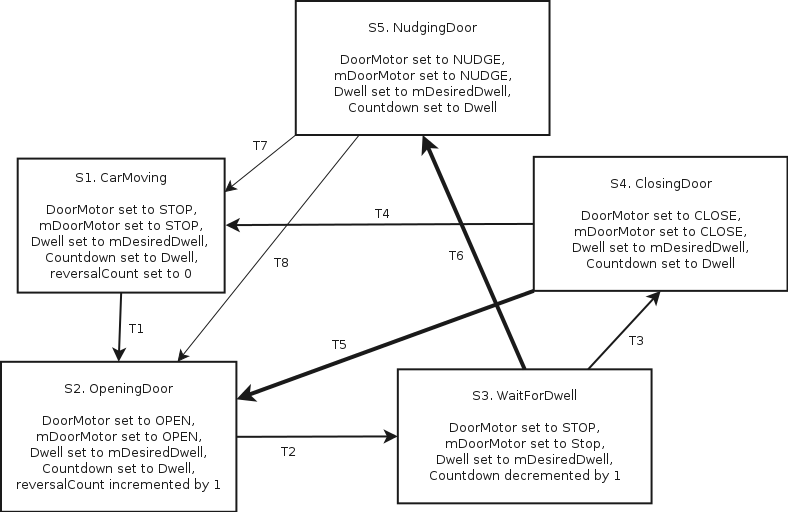
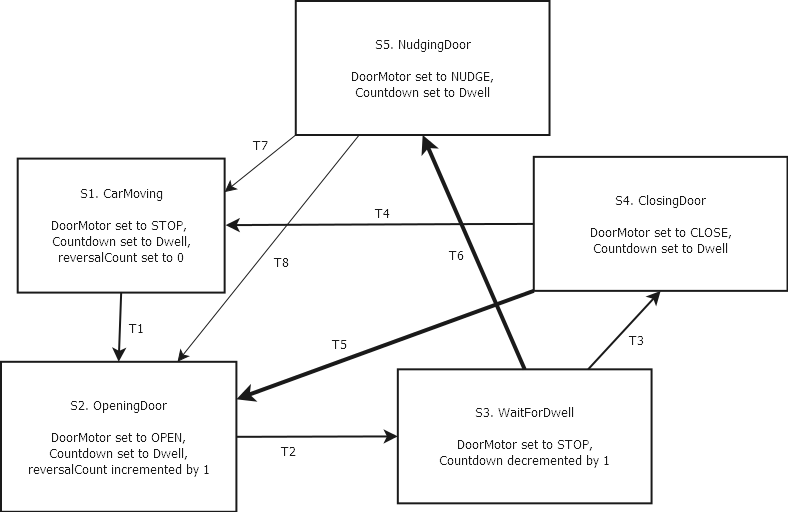
req1, statediagrams updated

diff --git a/portfolio/reqs/requirements1.html b/portfolio/reqs/requirements1.html
@@ -817,21 +817,6 @@
           </td>
         </tr>
         <tr>
-          <td> Drive Control </td>
-          <td> mDrive </td>
-          <td> none </td>
-          <td style="vertical-align: top;">2<br>
-          </td>
-          <td>The commanded speed and direction of the car<br>
-            <ul>
-              <li>Speed - one of {STOP, SLOW, FAST}<br>
-              </li>
-              <li>Direction - one of {STOP, UP, DOWN}<br>
-              </li>
-            </ul>
-          </td>
-        </tr>
-        <tr>
           <td> Dispatcher </td>
           <td> mDesiredDwell* </td>
           <td> hallway </td>
@@ -862,16 +847,6 @@
           </td>
         </tr>
         <tr>
-          <td> Door Control </td>
-          <td> mDoorMotorCommand </td>
-          <td> hall, side </td>
-          <td style="vertical-align: top;">1<br>
-          </td>
-          <td>The current command to the door.&nbsp; One of {STOP, OPEN,
-            CLOSE}<br>
-          </td>
-        </tr>
-        <tr>
           <td> Hall Button<span style="">&nbsp;</span> </td>
           <td> mHallCall </td>
           <td> floor, hall, direction </td>
@@ -882,16 +857,6 @@
           </td>
         </tr>
         <tr>
-          <td> Hall Button<span style="">&nbsp;</span> </td>
-          <td> mHallLight </td>
-          <td> floor, hall, direction </td>
-          <td style="vertical-align: top;">1<br>
-          </td>
-          <td>Indicate the state of the hall light&nbsp; One of {true,
-            false}<br>
-          </td>
-        </tr>
-        <tr>
           <td> Car Button </td>
           <td> mCarCall </td>
           <td> floor, hall </td>
@@ -899,15 +864,6 @@
           </td>
           <td>Indicate the presence of a car call for a certain floor
             and hall.&nbsp; One of {true, false}</td>
-        </tr>
-        <tr>
-          <td> Car Button </td>
-          <td> mCarLight </td>
-          <td> floor, hall </td>
-          <td style="vertical-align: top;">1<br>
-          </td>
-          <td>Indicate the state of the car light&nbsp; One of {true,
-            false}</td>
         </tr>
       </tbody>
     </table>
